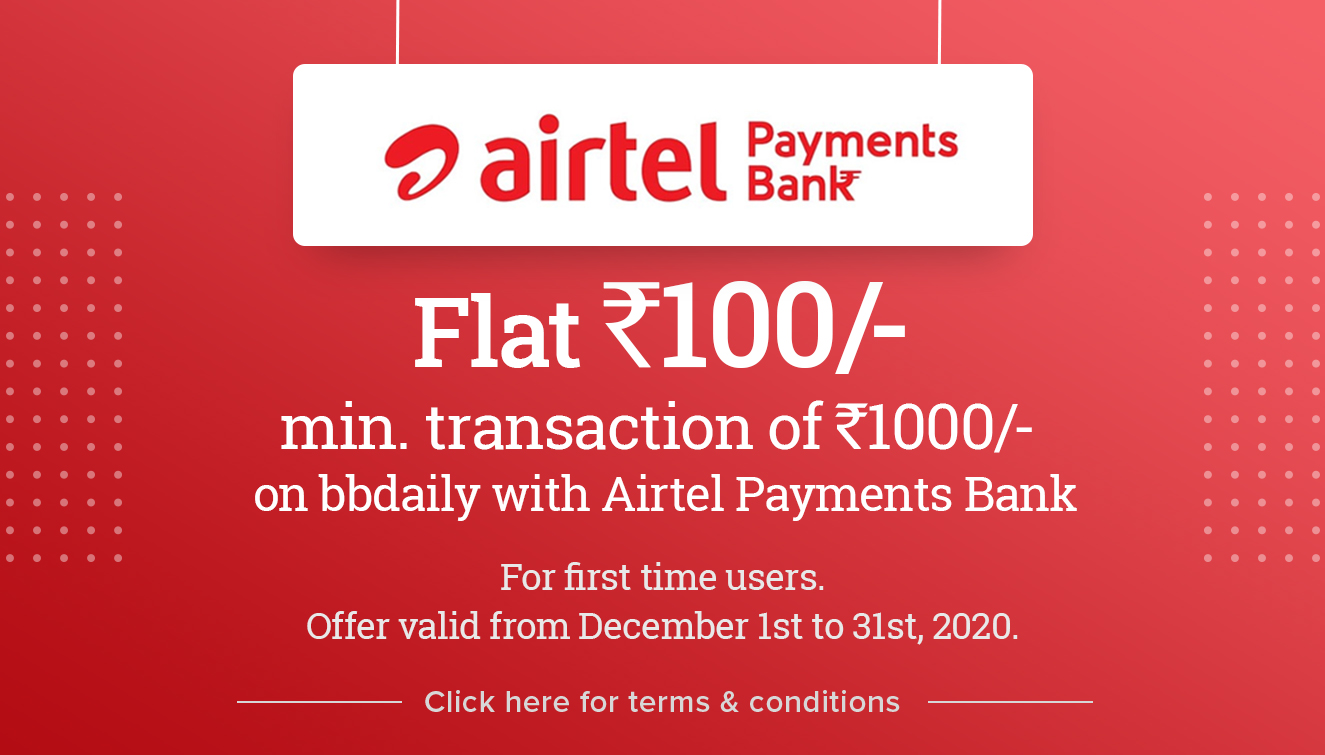
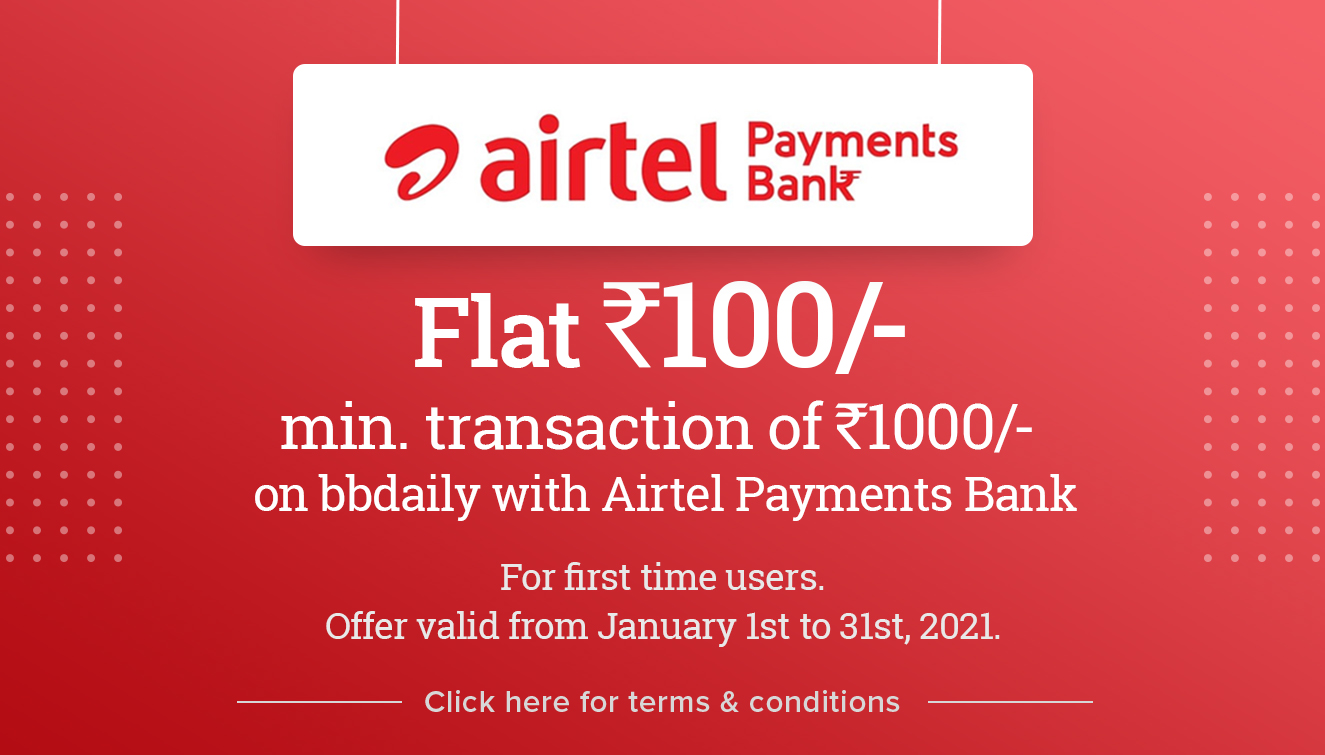
bbdaily icici december

Changed region(s): [[0.2166, 0.7921, 0.7736, 0.853]]

diff --git a/milk.html b/milk.html
@@ -148,14 +148,14 @@ $(document).ready(function () {
                                 Min Recharge value: Rs.2000/-<br>
                                 Only for New Customer. Customer should activate milk subscription<br>
                                 500ml packet of milk or milk with value <=Rs28 are eligible for the offer<br>
-                                Offer valid till Dec 31st, 2020.<br><br>
+                                Offer valid till Jan 31st, 2021.<br><br>
                                 
                                 Recharge Rs 1000 & 4 days milk free. Use code: 4milk<br>
                                 Every 4th day one day free up to maximum 4days free milk<br>
                                 Min Recharge value: Rs.1000/-<br>
                                 Only for New Customer. Customer should activate milk subscription<br>
                                 500ml packet of milk or milk with value <=Rs28 are eligible for the offer<br>
-                                Offer valid till Dec 31st, 2020. <br>
+                                Offer valid till Jan 31st, 2021. <br>
                                 <br><br>
                                  
                                 <strong>Offer for Ahmedabad, Chennai, Delhi, Gurgaon, Hyderabad, Kolkata, Noida & Pune</strong><br>
@@ -164,14 +164,14 @@ $(document).ready(function () {
                                 Min Recharge value: Rs.2000/-<br>
                                 Only for New Customer. Customer should activate milk subscription<br>
                                 500ml packet of milk or milk with value <=Rs28 are eligible for the offer<br>
-                                Offer valid till Dec 31st, 2020. <br><br>
+                                Offer valid till Jan 31st, 2021. <br><br>
                                 
                                 Recharge Rs 1000 & 3 days milk free. Use code: 3milk<br>
                                 Every 4th day one day free up to maximum 3days free milk<br>
                                 Min Recharge value: Rs.1000/-<br>
                                 Only for New Customer. Customer should activate milk subscription<br>
                                 500ml packet of milk or milk with value <=Rs28 are eligible for the offer<br>
-                                Offer valid till Dec 31st, 2020. <br>
+                                Offer valid till Jan 31st, 2021. <br>
                               </p>
                     <!--
                               <div>      

diff --git a/offers.html b/offers.html
@@ -88,13 +88,10 @@ $(document).ready(function () {
 		
 		
 		<ul class="navbar-nav ml-auto mr-5">
-			
-			
 			<li class="nav-item">
 				<a class="nav-link pr-3" href="index.html"> Home</a>
 			</li>
-            
-         </ul>
+    </ul>
 	</div> 
 	
 	
@@ -126,13 +123,14 @@ $(document).ready(function () {
   </div>
 </div>
 
+<!--
 <div class="container">
   <div class="row mx-auto">
   <div class="col-12">
     <a href="bread.html" ><img class="rounded img-fluid mx-auto d-block" src="img/bbdaily_subscribebakery_600x300.jpg" width="800px" height="400px" ></a></div>
   </div>
 </div>
-
+-->
 <div class="container">
       <div class="row mx-auto">
       <div class="col-12">
@@ -140,14 +138,15 @@ $(document).ready(function () {
       </div>
   </div>
 
+<!--
 <div class="container">
     <div class="row mx-auto">
     <div class="col-12">
       <a href="hdfc.html" ><img class="rounded img-fluid mx-auto d-block" src="img/bbdaily_websiteAffiliates_HDFC_1325x755.jpg" width="800px" height="400px" ></a></div>
     </div>
 </div>
-
-  <!--
+-->
+<!--
 <div class="container">
     <div class="row mx-auto">
     <div class="col-12">
@@ -181,14 +180,14 @@ $(document).ready(function () {
 <div class="container">
     <div class="row mx-auto">
     <div class="col-12">
-      <a href="mobikwik.html" ><img class="rounded img-fluid mx-auto d-block" src="img/bbdaily_websiteAffiliates_Mobikwick_1325x755.jpg" width="800px" height="400px" ></a></div>
+      <a href="mobikwik.html" ><img class="rounded img-fluid mx-auto d-block" src="img/bbdaily_websiteAffiliates_Mobiquick_1325x755.jpg" width="800px" height="400px" ></a></div>
     </div>
   </div>
 
   <div class="container">
     <div class="row mx-auto">
     <div class="col-12">
-      <a href="mobikwik1.html" ><img class="rounded img-fluid mx-auto d-block" src="img/bbdaily_websiteAffiliates_Mobikwick(NEWUSERS)_1325x755.jpg" width="800px" height="400px" ></a></div>
+      <a href="mobikwik1.html" ><img class="rounded img-fluid mx-auto d-block" src="img/bbdaily_websiteAffiliates_Mobiquick_NEW_1325x755.jpg" width="800px" height="400px" ></a></div>
     </div>
   </div>
 

diff --git a/free.html b/free.html
@@ -75,13 +75,6 @@
                       </h1>
                       <p class="text-left"style="padding-top:5%; font-weight:bold; font-size: 16px" >
 
-                        For selected existing customers only: <br><br>
-                        1. Get up to Rs.300/- worth subscription coupon free on recharge of Rs.1000/-. Coupon code - sub1000. On any one item. Total 6 free deliveries (1 free delivery for every 4th paid delivery)<br>
-                        
-                        2. Get up to Rs.600/- worth subscription coupon free on recharge of Rs.2000/-. Coupon code - sub2000. On any two items. Total 6 free deliveries (1 free delivery for every 4th paid delivery)<br>
-                        
-                        3. Get up to Rs.900/- worth subscription coupon free on recharge of Rs.3000/-. Coupon code - sub3000. On any three items. Total 6 free deliveries (1 free delivery for every 4th paid delivery)<br><br>
-                        
                         For new customers only:<br><br>
                         1. Get up to Rs.300/- worth subscription coupon free on recharge of Rs.1000/-. Coupon code - free1000. On any one item. Total 6 free deliveries (1 free delivery for every 4th paid delivery)<br>
                         

diff --git a/citi.html b/citi.html
@@ -75,13 +75,13 @@
                       </h1>
                       <p class="text-left"style="padding-top:5%; font-weight:bold; font-size: 16px" >
                         1. Rs.250 instant discount on a minimum recharge of Rs.3000.<br>
-                        2. Use code: CITIDEC1.<br>
+                        2. Use code: CITIJAN1.<br>
                         3. Maximum discount of Rs.250.<br>
                         4. Offer valid only on Citibank Credit and Debit Cards.<br>
                         5. Valid once per user per card during the offer period.<br>
                         6. Offer not valid on the net banking.<br>
                         7. Cannot be clubbed with any other offer.<br>
-                        8. Offer valid from December 1st to December 5th, 2020.<br>
+                        8. Offer valid from January 1st to January 5th, 2021.<br>
                         9. bbdaily & Citibank reserves the right to change/modify/add/delete any of the terms and conditions of the offer at any time without notice.<br>
                         10. Offer is not valid on Paytm First Cards and Citi Corporate Cards.<br>
                         11. Add on cards will be treated as separate cards.<br>

diff --git a/airtel.html b/airtel.html
@@ -101,7 +101,7 @@ $(document).ready(function () {
                             2. Users can avail flat Rs.100 cashback on transactions through Airtel Payments Bank.<br>
                             3. Maximum cashback amount will be Rs.100 for Airtel Payments Bank customers.<br>
                             4. Offer is applicable once per user during the offer duration. Offer is applicable only for first-time users of Airtel Payments Bank on bbdaily.<br>
-                            5. Offer valid from December 1st to December 30th, 2020.<br>
+                            5. Offer valid from January 1st to January 31st, 2021.<br>
                             6. Minimum recharge of Rs. 1000 is mandatory in order to avail this offer.<br>
                             7. Cashback would be credited within 72 business hours in the user's Airtel Payments Bank wallet or savings account.<br>
                             8. Airtel Payments Bank reserves the right to disqualify any Airtel Payments Bank wallet holder(s) or Airtel Payments Bank savings account holder(s) from the benefits of this offer in case of any fraudulent activity/suspicious transactions.<br>

diff --git a/yes.html b/yes.html
@@ -76,7 +76,7 @@
                       <p class="text-left"style="padding-top:5%; font-weight:bold; font-size: 16px" >
                         • Under the offer the eligible YES BANK Credit Card members can avail of a flat discount of Rs.200/- on a minimum recharge of Rs.2,000/- or more on bbdaily <br>
                         • Offer is valid on all Thursdays only during the offer period<br>
-                        • Offer Period: 1st December 2020 to 31st December 2020<br>
+                        • Offer Period: 1st January 2021 to 31st January 2021<br>
                         • Offer is valid only once per card during the offer period<br>
                         • Use code: YESDEC to avail the instant discount<br>
                         • Valid only on recharges made using YES Bank Credit Cards<br>

diff --git a/mobikwik.html b/mobikwik.html
@@ -78,7 +78,7 @@
                         2. Use code: KWIK10 to avail SuperCash<br>
                         3. Maximum SuperCash that can be availed is ₹100<br>
                         4. Offer valid once during the offer period<br>
-                        5. Offer valid between  Dec 1st to 31st Dec 2020 <br>
+                        5. Offer valid between  Jan 1st to 31st Jan 2021 <br>
                       </p>
               </div>  
         </div>

diff --git a/mobikwik1.html b/mobikwik1.html
@@ -78,7 +78,7 @@
                         2. Maximum cashback that can be availed is Rs.50<br>
                         3. Use code: NEW50 to avail the offer<br>
                         4. Offer valid for only New MobiKwik users<br>
-                        5. Offer valid between Dec 1st to Jan 31st, 2021<br>
+                        5. Offer valid between Jan 1st to Jan 31st, 2021<br>
                       </p>
               </div>  
         </div>
